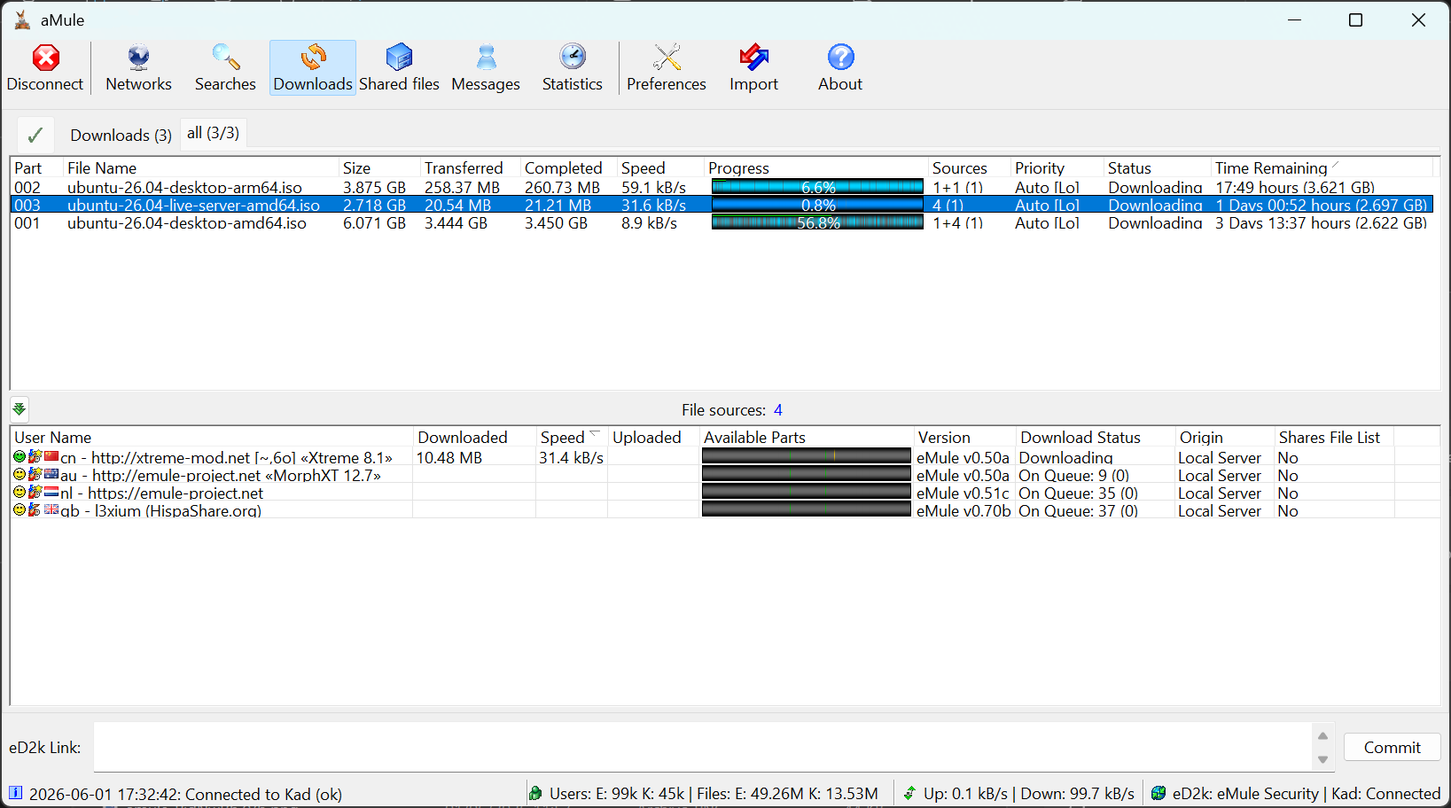
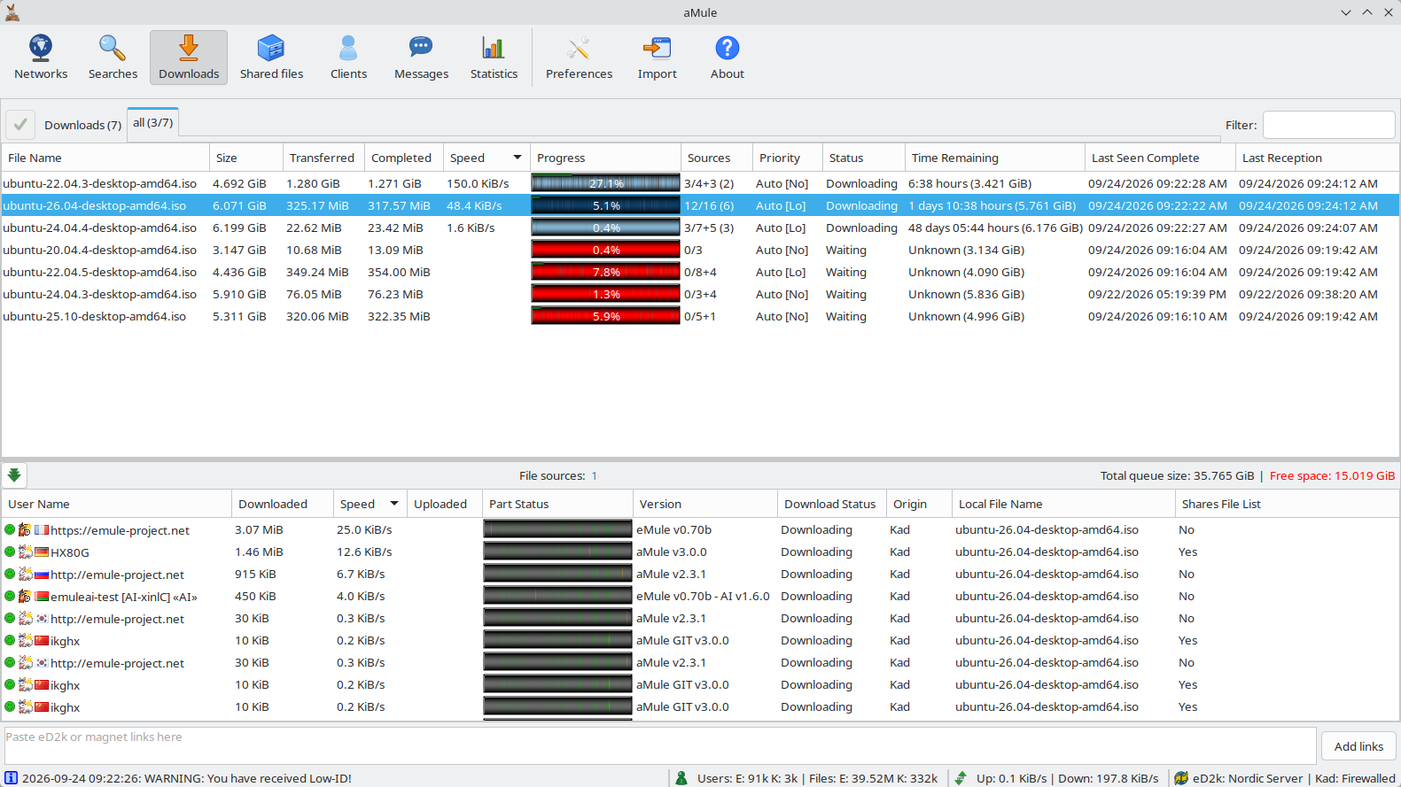
Update GUI toolbar, shortcuts and skins docs for 3.1.0
Document the 3.1.0 toolbar (Clients button, Alt shortcuts, no global Connect button), the macOS Navigate menu, the shared list behaviour of the wxDataViewCtrl lists, and the new amule command-line flags. Re-capture the toolbar, skin and main window screenshots and drop unreferenced images.

Changed region(s): [[0.0, 0.0, 1.0, 1.0], [0.0, 0.9719, 0.2789, 1.0], [0.8368, 0.6985, 0.8678, 0.7289]]

diff --git a/docs/manual/interfaces/gui/shortcuts.md b/docs/manual/interfaces/gui/shortcuts.md
@@ -5,20 +5,39 @@ title: Keyboard and Mouse Shortcuts
 
 aMule provides a set of built-in keyboard and mouse shortcuts for navigating and controlling the application. These shortcuts are hard-coded and cannot be customized or reassigned.
 
+## Window Shortcuts
+
+Each main window has an `Alt`+letter shortcut, also shown in the tooltip of its [toolbar](./toolbar.md) button:
+
+| Shortcut | Opens |
+|---|---|
+| `Alt+N` | [Networks](./networks.md) |
+| `Alt+S` | [Searches](./searches.md) |
+| `Alt+T` | [Downloads](./downloads.md) |
+| `Alt+F` | [Shared Files](./shared-files.md) |
+| `Alt+C` | [Clients](./clients.md) |
+| `Alt+M` | [Messages](./messages.md) |
+| `Alt+G` | [Statistics](./statistics.md) |
+| `Alt+P` | [Preferences](./preferences.md) |
+
+On macOS these shortcuts use the `⌥` (Option) key and are also listed in a native **Navigate** menu in the menu bar, with the same entries in the same order (see [macOS](../../configuration/macos.md#menu-bar)).
+
 ## Keyboard Shortcuts
 
 | Shortcut | Window | Action |
 |---|---|---|
 | `Enter` | [Networks](./networks.md) / eD2k | Connect to the selected server |
-| `Enter` | [Searches](./searches.md) | Start a search (search box) or download/expand the selected result |
-| `Enter` | [Downloads](./downloads.md) | Preview the selected file (only if it is completed or a preview is available) |
-| `Enter` | [Messages](./messages.md) | Open a chat with the selected user |
-| `Del` | [Downloads](./downloads.md) / [Networks](./networks.md) / [Messages](./messages.md) | Remove the selected item: cancel the download, remove the server, or remove the friend |
-| *Any character* | All | In a list: jump to the item whose first-column value starts with the typed string (resets after 1.5 s; pressing the same letter repeatedly cycles through matches) |
-| `Ctrl+A` | All | Select all items in the current list |
+| `Enter` | [Searches](./searches.md) | Start a search (search box), apply the filter at once (filter box), or download/expand the selected result |
+| `Enter` | [Downloads](./downloads.md) / [Shared Files](./shared-files.md) | Open the selected file if it is complete, preview it if it is unfinished and a preview is possible, otherwise show its [file details](./file-details.md) |
+| `Enter` | Client lists ([Clients](./clients.md), download sources, [Shared Files](./shared-files.md) clients) | Show the [client details](./client-details.md) |
+| `Enter` | [Messages](./messages.md) | Open a chat with the selected friend |
+| `Del` | [Downloads](./downloads.md) / [Networks](./networks.md) / [Messages](./messages.md) | Remove the selected item, after confirmation: cancel the download, remove the server, or remove the friend |
+| *Any character* | All lists | Jump to the item whose first-column value starts with the typed string (resets after 1.5 s; pressing the same letter repeatedly cycles through matches) |
+| `Ctrl+A` | All lists | Select all items in the current list (`⌘A` on macOS) |
+| `Shift+F10` or `Menu` key | All lists | Open the context menu of the selected item |
 | `Ctrl+C` | [Networks](./networks.md) / ED2K Info / Kad Info | Copy the selected rows (or the whole panel) to the clipboard as tab-separated `label`/`value` pairs |
-| `Ctrl+Q` | All | Exit aMule |
-| `F1` | All | Open the online help wiki in your browser (only when no modifier key is held) |
+| `Ctrl+Q` | All | Exit aMule (`⌘Q` on macOS) |
+| `F1` | All | Open the online documentation in your browser (only when no modifier key is held) |
 | `F2` | [Downloads](./downloads.md) | Rename the selected download (part files only, not completed files) |
 | `F2` | [Shared Files](./shared-files.md) | Rename the selected shared file |
 
@@ -28,13 +47,16 @@ aMule provides a set of built-in keyboard and mouse shortcuts for navigating and
 |---|---|---|
 | Double-click | [Networks](./networks.md) / eD2k | Connect to the selected server |
 | Double-click | [Searches](./searches.md) | Download the selected result (or expand/collapse it if it has children) |
-| Double-click | [Downloads](./downloads.md) | Preview the selected file (only if it is completed or a preview is available) |
-| Middle-click | [Downloads](./downloads.md) | Show the [file details](./file-details.md) for the selected file |
-| Double-click | [Messages](./messages.md) | Open a chat with the selected user |
+| Double-click | [Downloads](./downloads.md) / [Shared Files](./shared-files.md) | Open the file if it is complete, preview it if it is unfinished and a preview is possible, otherwise show its [file details](./file-details.md) |
+| Double-click | Client lists ([Clients](./clients.md), download sources, [Shared Files](./shared-files.md) clients) | Show the [client details](./client-details.md) |
+| Middle-click | Download sources / [Shared Files](./shared-files.md) clients | Show the [client details](./client-details.md) |
+| Double-click | [Messages](./messages.md) | Open a chat with the selected friend |
 | Double-click | [Statistics](./statistics.md) | Expand or collapse the selected statistics node |
-| Click on a column header | All | Sort the list by that column (toggles ascending/descending) |
-| Right-click on a column header | All | Show a menu to toggle which columns are visible |
+| Hover | [Statistics](./statistics.md) / Kad graph | Show the values of each line at that point in time |
+| Click on a column header | All lists | Sort the list by that column (toggles ascending/descending) |
+| Right-click on a column header | All lists | Show a menu to toggle which columns are visible |
 | Right-click on an item | All | Open the item's context menu |
 | Right-click → Copy | [Networks](./networks.md) / ED2K Info / Kad Info | Copy the selected rows (or the whole panel) to the clipboard |
-| Middle-click or right-click on a tab | All | Close the tab or open the tab menu |
-| Click or double-click | [System tray icon](./tray-icon.md) | Show or hide the main window |
+| Middle-click on a tab | [Searches](./searches.md) / [Messages](./messages.md) | Close the tab |
+| Right-click on a tab | [Searches](./searches.md) / [Messages](./messages.md) | Open the tab menu |
+| Double-click (or, where supported, click) | [System tray icon](./tray-icon.md) | Show or hide the main window (see [Mouse Clicks](./tray-icon.md#mouse-clicks)) |

diff --git a/docs/manual/interfaces/gui/amule.md b/docs/manual/interfaces/gui/amule.md
@@ -11,7 +11,7 @@ title: amule — GUI Client
 
 `amule` is the most complete way to run aMule: the core and GUI run in the same process, so no remote connection or daemon setup is required. It is the best choice for desktop systems where a persistent graphical session is available.
 
-For headless or server environments, use [`amuled`](../amuled.md) (daemon) together with [`amulegui`](./amulegui.md), [`amuleapi`](../amuleapi/index.md), [`amulecmd`](../amulecmd.md), or [`amuleweb`](../amuleweb.md).
+For headless or server environments, use [`amuled`](../amuled.md) (daemon) together with [`amulegui`](./amulegui.md), [`amuleapi`](../amuleapi/index.md), [`amulecmd`](../amulecmd.md), or the legacy [`amuleweb`](../amuleweb.md).
 
 aMule officially supports more than 60 different hardware and OS configurations. It is built on the [wxWidgets](https://www.wxwidgets.org/) toolkit (formerly wxWindows), which provides the multiplatform GUI layer.
 
@@ -23,7 +23,7 @@ See [Installation](../../installation/index.md) for pre-built packages, or [Comp
 
 Most settings can be configured directly from the GUI through the [Preferences](./preferences.md) dialog. They are stored in [`~/.aMule/amule.conf`](../../configuration/config-files/amule-conf.md), which is created automatically on first run.
 
-## Starting amule
+## Starting `amule`
 
 Launch from a terminal:
 
@@ -31,7 +31,7 @@ Launch from a terminal:
 amule
 ```
 
-On first run, aMule creates its [configuration directory](../../configuration/config-files/index.md) (`~/.aMule/`) and presents a first-run wizard for basic setup (TCP/UDP ports, download/upload directories, bandwidth limits).
+On first run, aMule creates its [configuration directory](../../configuration/config-files/index.md) (`~/.aMule/`) and presents a first-run wizard for basic setup (nickname, bandwidth, networks and ports, download and temporary directories).
 
 Command-line flags:
 
@@ -40,16 +40,18 @@ Command-line flags:
 | `-h`, `--help` | Display help and exit |
 | `-v`, `--version` | Print version and exit |
 | `-c`, `--config-dir <dir>` | Use an alternative configuration directory instead of `~/.aMule/` |
-| `--geometry <geom>` | Set the window geometry, using the standard X11 format `[=][<width>{xX}<height>][{+-}<xoffset>{+-}<yoffset>]` |
+| `-geometry <geom>` | Set the window geometry, using the standard X11 format `[=][<width>{xX}<height>][{+-}<xoffset>{+-}<yoffset>]` |
 | `-o`, `--log-stdout` | Print log messages to stdout |
 | `-r`, `--reset-config` | Reset config to default values (the old config is backed up as `.backup`) |
 | `--configure-autostart=on\|off` | Enable or disable starting `amule` on user login, then exit |
+| `--configure-protocols=<value>` | Register or unregister aMule as the default handler for `ed2k://` and `magnet:` links, then exit. `on`\|`off` sets both schemes; `ed2k:on`, `ed2k:off`, `magnet:on` or `magnet:off` sets one |
+| `--configure-file-assoc=on\|off` | Register or unregister aMule as the handler for `.emulecollection` files, then exit |
 | `-w`, `--use-amuleweb <path>` | Specify the location of the `amuleweb` binary |
-| `-d`, `--disable-fatal` | Don't catch fatal exceptions or block exit on assertions (useful under systemd / watchdog scripts) |
-| `-i`, `--enable-stdin` | Do not close stdin (closed by default) |
+| `-d`, `--disable-fatal` | Don't catch fatal exceptions or block exit on assertions (useful under systemd / watchdog scripts). Not available on Windows |
+| `-i`, `--enable-stdin` | Do not close stdin (closed by default). Not available on Windows |
 | `-t`, `--category <num>` | Category for passed eD2k links (default: `0`) |
 
-You can also pass one or more [eD2k links](../../../p2p-networks/ed2k/links.md) as arguments to enqueue them:
+You can also pass one or more [eD2k links](../../../p2p-networks/ed2k/links.md), `magnet:` links or `.emulecollection` files as arguments to enqueue them:
 
 ```bash
 amule -t 1 "ed2k://|file|example.iso|123456|<hash>|/"
@@ -57,11 +59,10 @@ amule -t 1 "ed2k://|file|example.iso|123456|<hash>|/"
 
 ## Interface
 
-The aMule interface is divided into several panels accessible via tabs or the toolbar. Full documentation for each panel is in the [GUI](./index.md) guides.
+The aMule interface is divided into several panels, switched with the [toolbar](./toolbar.md) buttons, their [`Alt`+letter shortcuts](./shortcuts.md#window-shortcuts) or, on macOS, the **Navigate** menu. Full documentation for each panel is in the [GUI](./index.md) guides.
 
 ## ED2K Link Integration
 
-aMule can handle `ed2k://` and `magnet:` links clicked in a web browser using the `ed2k` helper binary (installed alongside `amule`). When clicked, the browser invokes `ed2k`, which passes the link to the running aMule instance via the ED2KLinks file.
+aMule can register itself with the operating system as the handler for `ed2k://` and `magnet:` links and for `.emulecollection` files, so clicking one in a browser or file manager queues it in aMule. Turn this on in the first-run wizard, with the **Register aMule for ed2k:// links**, **Register aMule for magnet: links** and **Open .emulecollection files with aMule** options in [Preferences → General](./preferences.md#general), or from the command line with `--configure-protocols` and `--configure-file-assoc` (see above). A link opened this way is passed to the running aMule instance through the ED2KLinks file.
 
-- For the **`ed2k` command** and how the ED2KLinks file works, see [ed2k — ED2K Link Handler](../../utilities/ed2k.md).
-- For **browser configuration** (Firefox, Opera, Konqueror, Windows, macOS, remote handling), see [ed2k — ED2K Link Handler](../../utilities/ed2k.md).
+For the separate `ed2k` command-line helper, how the ED2KLinks file works, and handling links for a remote core, see [ed2k — ED2K Link Handler](../../utilities/ed2k.md).

diff --git a/docs/manual/interfaces/gui/toolbar.md b/docs/manual/interfaces/gui/toolbar.md
@@ -3,39 +3,40 @@ id: toolbar
 title: Toolbar
 ---
 
-The toolbar provides one-click access to all major aMule windows and to the connect/disconnect action. It is normally positioned at the top of the main window but can be moved to the left side by enabling **[Preferences → Interface → Vertical toolbar orientation](./preferences.md#interface)**.
+The toolbar provides one-click access to all major aMule windows and dialogs. It is normally positioned at the top of the main window but can be moved to the left side by enabling **[Preferences → Interface → Vertical toolbar orientation](./preferences.md#interface)**.
 
 ![aMule toolbar](/img/docs/gui_toolbar/toolbar.png)
 
-## Connect / Disconnect
-
-The leftmost button connects and disconnects aMule from all enabled networks. The networks that aMule is allowed to connect to are configured in **[Preferences → Connection → Networks](./preferences.md#networks)**. The button has three states:
-
-| Icon | State | Description |
-|---|---|---|
-| ![Connect](/img/docs/gui_toolbar/toolbar_connect.png) | **Disconnected** | aMule is not connected to any network. Clicking the button starts a connection attempt to all allowed networks. If neither the eD2k nor the Kad network is enabled in [Preferences](./preferences.md#networks), the button is disabled. |
-| ![Cancel](/img/docs/gui_toolbar/toolbar_cancel.png) | **Connecting** | A connection attempt is in progress. Clicking **Cancel** aborts the attempt and returns aMule to the disconnected state. |
-| ![Disconnect](/img/docs/gui_toolbar/toolbar_disconnect.png) | **Connected** | aMule is connected to at least one network. Clicking **Disconnect** disconnects aMule from all networks immediately. |
+The icons are drawn from vector (SVG) artwork, so they stay sharp at any display scaling (hi-DPI). A [skin](./skins.md) can still replace them with its own bitmaps.
 
 ## Window Buttons
 
-The following buttons switch the main aMule window to the corresponding panel:
+The following buttons switch the main aMule window to the corresponding panel. Each one also has an `Alt`+letter [keyboard shortcut](./shortcuts.md#window-shortcuts), shown in its tooltip (`⌥`+letter on macOS):
 
-| Button | Opens |
-|---|---|
-| **Networks** | [Networks panel](./networks.md) — eD2k server list and Kademlia status |
-| **Searches** | [Searches panel](./searches.md) — search for files on the eD2k and Kad networks |
-| **Downloads** | [Downloads panel](./downloads.md) — active downloads and uploads |
-| **Shared Files** | [Shared Files panel](./shared-files.md) — files you are currently sharing |
-| **Messages** | [Messages panel](./messages.md) — chat and friends list |
-| **Statistics** | [Statistics panel](./statistics.md) — speed graphs and detailed statistics |
+| Button | Shortcut | Opens |
+|---|---|---|
+| **Networks** | `Alt+N` | [Networks panel](./networks.md) — eD2k server list and Kademlia status. Disabled when both networks are disabled in [Preferences](./preferences.md#networks) |
+| **Searches** | `Alt+S` | [Searches panel](./searches.md) — search for files on the eD2k and Kad networks |
+| **Downloads** | `Alt+T` | [Downloads panel](./downloads.md) — download queue and its sources |
+| **Shared files** | `Alt+F` | [Shared Files panel](./shared-files.md) — files you are currently sharing |
+| **Clients** | `Alt+C` | [Clients panel](./clients.md) — active clients and the known-clients history |
+| **Messages** | `Alt+M` | [Messages panel](./messages.md) — chat and friends list |
+| **Statistics** | `Alt+G` | [Statistics panel](./statistics.md) — speed graphs and detailed statistics |
+
+When a chat message arrives while the Messages panel is not visible, the **Messages** button blinks (see [Detecting Incoming Messages](./messages.md#detecting-incoming-messages)).
 
 ## Access Buttons
 
-The last three buttons open secondary windows:
+The last buttons, after the separator, open secondary windows:
 
-| Button | Opens |
-|---|---|
-| **Preferences** | [Preferences window](./preferences.md) — all aMule settings |
-| **Import** | [Part-file importer](../../migration/import.md) — import eDonkey2000 part files |
-| **About** | About window — aMule version, copyright, and contact information |
+| Button | Shortcut | Opens |
+|---|---|---|
+| **Preferences** | `Alt+P` | [Preferences window](./preferences.md) — all aMule settings |
+| **Import** | — | [Part-file importer](../../migration/import.md) — import eDonkey2000 part files. Not available in [`amulegui`](./amulegui.md). |
+| **About** | — | About window — aMule version, copyright, and links to the website, forum, documentation and issue tracker |
+
+In builds with the new-version check (the official release bundles; builds from OS package managers usually leave it out), the About window also has a **Check for updates** button that reports whether you are running the latest release or which newer version is available.
+
+## Connect / Disconnect
+
+Before aMule 3.1.0 the leftmost toolbar button connected and disconnected all networks at once. It has been removed: each network now has its own **Connect** / **Disconnect** button on its tab of the [Networks](./networks.md) window, and the [system tray menu](./tray-icon.md#context-menu) still offers **Connect** / **Disconnect** for all networks.

diff --git a/docs/manual/configuration/macos.md b/docs/manual/configuration/macos.md
@@ -3,7 +3,7 @@ id: macos
 title: macOS
 ---
 
-This guide covers macOS-specific considerations when using aMule: activating context menus with a single-button mouse, configuring the built-in macOS firewall, handling [`ed2k://` links](../utilities/ed2k.md) from the browser, and setting up video preview.
+This guide covers macOS-specific considerations when using aMule: activating context menus with a single-button mouse, the **Navigate** menu, configuring the built-in macOS firewall, handling [`ed2k://` links](../utilities/ed2k.md) from the browser, and setting up video preview.
 
 ## Right-Click / Context Menus
 
@@ -20,6 +20,10 @@ There are no visible indicators showing where context menus are available. Exper
 - The column header labels at the top of any list (e.g., "File Name", "Size").
 - The "All" bar at the top of the download window.
 
+## Menu Bar
+
+On macOS aMule adds a **Navigate** menu to the menu bar. It lists the main windows — **Networks**, **Searches**, **Downloads**, **Shared files**, **Clients**, **Messages**, **Statistics** and, after a separator, **Preferences** — each with its `⌥`+letter [window shortcut](../interfaces/gui/shortcuts.md#window-shortcuts) (`⌥N`, `⌥S`, `⌥T`, `⌥F`, `⌥C`, `⌥M`, `⌥G`, `⌥P`). Because these are real menu shortcuts, they keep working on every key press and can be reached with VoiceOver. `⌘Q` quits aMule.
+
 ## Setting Up Firewall Access
 
 What actually matters for incoming connections is **port forwarding on your router** (forward aMule's TCP and UDP ports — default **4662/TCP** and **4672/UDP**, configured in **Preferences → Connection**).
@@ -30,7 +34,7 @@ The macOS built-in firewall is **off by default**, and when enabled it works **p
 2. Click **Options…**.
 3. Add `aMule.app` to the list and set it to **Allow incoming connections**.
 
-You can verify the ports are reachable using the Test Port tool (see [Troubleshooting → Remote Access](../troubleshooting/remote-access.md)).
+You can verify the ports are reachable as described in [Testing your port status](./network-connectivity.md#testing-your-port-status).
 
 ## Handling ed2k Links
 
@@ -60,9 +64,7 @@ aMule monitors this file and automatically processes any links found in it. You 
 
 ## Setting Up Video Preview
 
-You can preview incomplete video downloads with a media player like VLC or MPlayer. To configure this:
-
-aMule's default video-player command is a Linux-style command (`xterm … mplayer`) that does **not** work on macOS, so on macOS you must fill this field in manually with an `open`-based command:
+With no video player configured (the default), completed files already open with their default application. To preview **incomplete** downloads you need a media player like VLC or IINA, because an unfinished `.part` file has no type macOS can open on its own. To configure one, use an `open`-based command:
 
 1. Open **[Preferences](../interfaces/gui/preferences.md) → General**.
 2. Under **Video Player**, enter the path to open your player with the `/usr/bin/open -a` command:
@@ -71,8 +73,5 @@ aMule's default video-player command is a Linux-style command (`xterm … mplaye
 |---|---|
 | VLC | `/usr/bin/open -a "/Applications/VLC.app"` |
 | IINA | `/usr/bin/open -a "/Applications/IINA.app"` |
-| Default app for file type | `/usr/bin/open` |
 
-Using just `/usr/bin/open` (without `-a`) tells macOS to open the file with whatever application is registered as the default for that file type in Finder.
-
-The command also supports the `%PARTFILE` and `%PARTNAME` placeholders, which aMule replaces with the path of the file being previewed; if neither is present, the file path is appended to the command.
+The command also supports the `%PARTFILE` and `%PARTNAME` placeholders, which aMule replaces with the full path and the file name of the file being previewed; if neither is present, the file path is appended to the command.

diff --git a/docs/manual/interfaces/gui/skins.md b/docs/manual/interfaces/gui/skins.md
@@ -14,13 +14,13 @@ aMule supports two independent skinning systems:
 
 ### What can be skinned
 
-aMule bitmap skins replace the icons in the [toolbar](./toolbar.md) and the per-source [client icons](./downloads.md#client-icons) shown in the download queue. Toolbar images are **32×32 px** and client images are **16×16 px**. Any image not present in the skin falls back to the aMule default.
+aMule bitmap skins replace the icons in the [toolbar](./toolbar.md) and the [client icons](./downloads.md#client-icons) shown in the client lists (download sources, [Clients](./clients.md) page). Toolbar images are **32×32 px** and client images are **16×16 px**. Any image not present in the skin falls back to the aMule default.
 
 ### Enabling a skin
 
 1. Open **[Preferences → Interface](./preferences.md#interface)**.
 2. In the **Skin to use** dropdown, select the skin you want to apply.
-3. Click **OK** or **Apply**. The skin takes effect immediately.
+3. Click **OK**. The toolbar icons change immediately; the client icons change after restarting aMule.
 
 To disable skins, select **- default -** from the dropdown.
 
@@ -100,19 +100,19 @@ Each of these buttons is described in detail on the [Toolbar](./toolbar.md) page
 
 | File | Element |
 |---|---|
-| `Toolbar_Connect.png` | [Connect](./toolbar.md#connect--disconnect) button |
-| `Toolbar_Disconnect.png` | [Disconnect](./toolbar.md#connect--disconnect) button |
-| `Toolbar_Connecting.png` | [Connecting](./toolbar.md#connect--disconnect) (in-progress) button |
 | `Toolbar_Network.png` | [Networks](./networks.md) window button |
 | `Toolbar_Transfers.png` | [Downloads](./downloads.md) window button |
 | `Toolbar_Search.png` | [Searches](./searches.md) window button |
 | `Toolbar_Shared.png` | [Shared Files](./shared-files.md) window button |
+| `Toolbar_Clients.png` | [Clients](./clients.md) window button |
 | `Toolbar_Messages.png` | [Messages](./messages.md) window button |
 | `Toolbar_Stats.png` | [Statistics](./statistics.md) window button |
 | `Toolbar_Prefs.png` | [Preferences](./preferences.md) window button |
 | `Toolbar_Import.png` | [Import](../../migration/import.md) window button |
 | `Toolbar_About.png` | About window button |
 | `Toolbar_Blink.png` | Blink/notification indicator |
+
+Skins made for aMule 3.0 and earlier may also contain `Toolbar_Connect.png`, `Toolbar_Disconnect.png` and `Toolbar_Connecting.png`. aMule 3.1.0 ignores them, because the toolbar no longer has a Connect button (see [Toolbar](./toolbar.md)).
 
 #### Client images (16×16 px)
 
@@ -131,7 +131,7 @@ The meaning of each client icon is described in [Downloads → Client Icons](./d
 | `Client_eMule.png` | [eMule](../../../p2p-networks/ed2k/clients.md#emule-2002present) client |
 | `Client_Encrypted.png` | [Encrypted](./preferences.md#protocol-obfuscation) connection |
 | `Client_ExcellentRatingOnFile.png` | Client with excellent file [rating](./comments.md) |
-| `Client_ExtendedProtocol.png` | Client using extended protocol |
+| `Client_ExtendedProtocol.png` | Overlay for a client that does **not** support the extended protocol |
 | `Client_FairRatingOnFile.png` | Client with fair file [rating](./comments.md) |
 | `Client_Friend.png` | [Friend](../../../p2p-networks/concepts.md#friend) |
 | `Client_GoodRatingOnFile.png` | Client with good file [rating](./comments.md) |

diff --git a/docs/manual/interfaces/gui/index.md b/docs/manual/interfaces/gui/index.md
@@ -16,7 +16,7 @@ The graphical interface is shared by the all-in-one [`amule`](./amule.md) client
 
 | Page | Description |
 |---|---|
-| [Toolbar](./toolbar.md) | Connect/disconnect button, window-switching buttons, and access buttons |
+| [Toolbar](./toolbar.md) | Window-switching buttons and access buttons |
 | [Status Bar](./statusbar.md) | Network status, user/file counts, speed indicators, and globe icon |
 | [System Tray Icon](./tray-icon.md) | Tray icon colours, tooltip, and right-click menu |
 
@@ -58,3 +58,16 @@ The graphical interface is shared by the all-in-one [`amule`](./amule.md) client
 | Page | Description |
 |---|---|
 | [Keyboard & Mouse Shortcuts](./shortcuts.md) | Complete shortcut reference |
+
+## Working with lists
+
+Every major list in the interface — servers, search results, downloads and their sources, shared files, clients, friends and the file-names list in [File Details](./file-details.md) — is built on the same list control and behaves the same way:
+
+- **Sorting** — click a column header to sort by that column; click it again to reverse the order. Sorting is live: rows are re-sorted as their values change.
+- **Choosing columns** — right-click a column header to show or hide columns. Column widths, hidden columns and the sort order are remembered between sessions.
+- **Type to jump** — with the list focused, type the first letters of an entry to jump to it.
+- **Context menus** — right-click a row, or press `Shift+F10` or the `Menu` key, to open its context menu.
+
+See [Keyboard & Mouse Shortcuts](./shortcuts.md) for the full list.
+
+The interface follows the system's light or dark appearance, and the lists paint their colour-coded text (for example the [search result colours](./searches.md#result-row-colours)) in shades that stay readable on either background. On Windows this requires a build against wxWidgets 3.3 or later.
